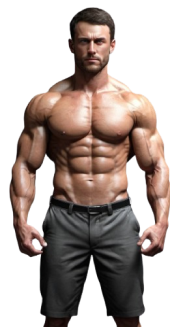
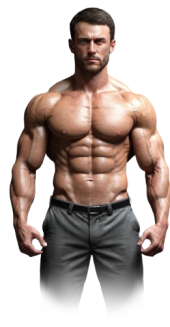
Images updated to have a better quality

Changed region(s): [[0.2059, 0.7951, 0.5294, 1.0], [0.5588, 0.7951, 0.8529, 1.0]]

diff --git a/frontend/src/screens/PresentationInitial/index.js b/frontend/src/screens/PresentationInitial/index.js
@@ -21,7 +21,7 @@ export const PresentationInitial = ({ navigation }) => {
                         width='100%'
                         marginTop={percentage(0.03, 'h')}
                     >
-                        Bem Vindo ao Gym Tracker
+                        Bem-vindo ao Gym Tracker
                     </Title>
 
                     <Subtitulo FontSize={12} marginTop={percentage(0.02, 'h')}>

diff --git a/frontend/src/screens/Presentation/index.js b/frontend/src/screens/Presentation/index.js
@@ -12,7 +12,7 @@ import { Button } from '../../components/Button';
 import Gradient from '../../components/Gradient';
 import { percentage } from '../../utils/percentageFactory';
 
-const roundImageSource = require('../../assets/Images/joaocantor.jpg');
+const roundImageSource = require('../../assets/Images/lee_priest.png');
 
 export const Presentation = ({ navigation }) => {
     return (

diff --git a/frontend/src/components/CardsGender/style.js b/frontend/src/components/CardsGender/style.js
@@ -27,7 +27,7 @@ export const ViewCircle = styled.View`
     width: 20px;
     height: 20px;
     border-radius: 15px;
-    background-color: orange;
+    background-color: ${colors.orange};
     align-items: center;
     display: ${props => (props.isSelected ? 'block' : 'none')};
 `;
